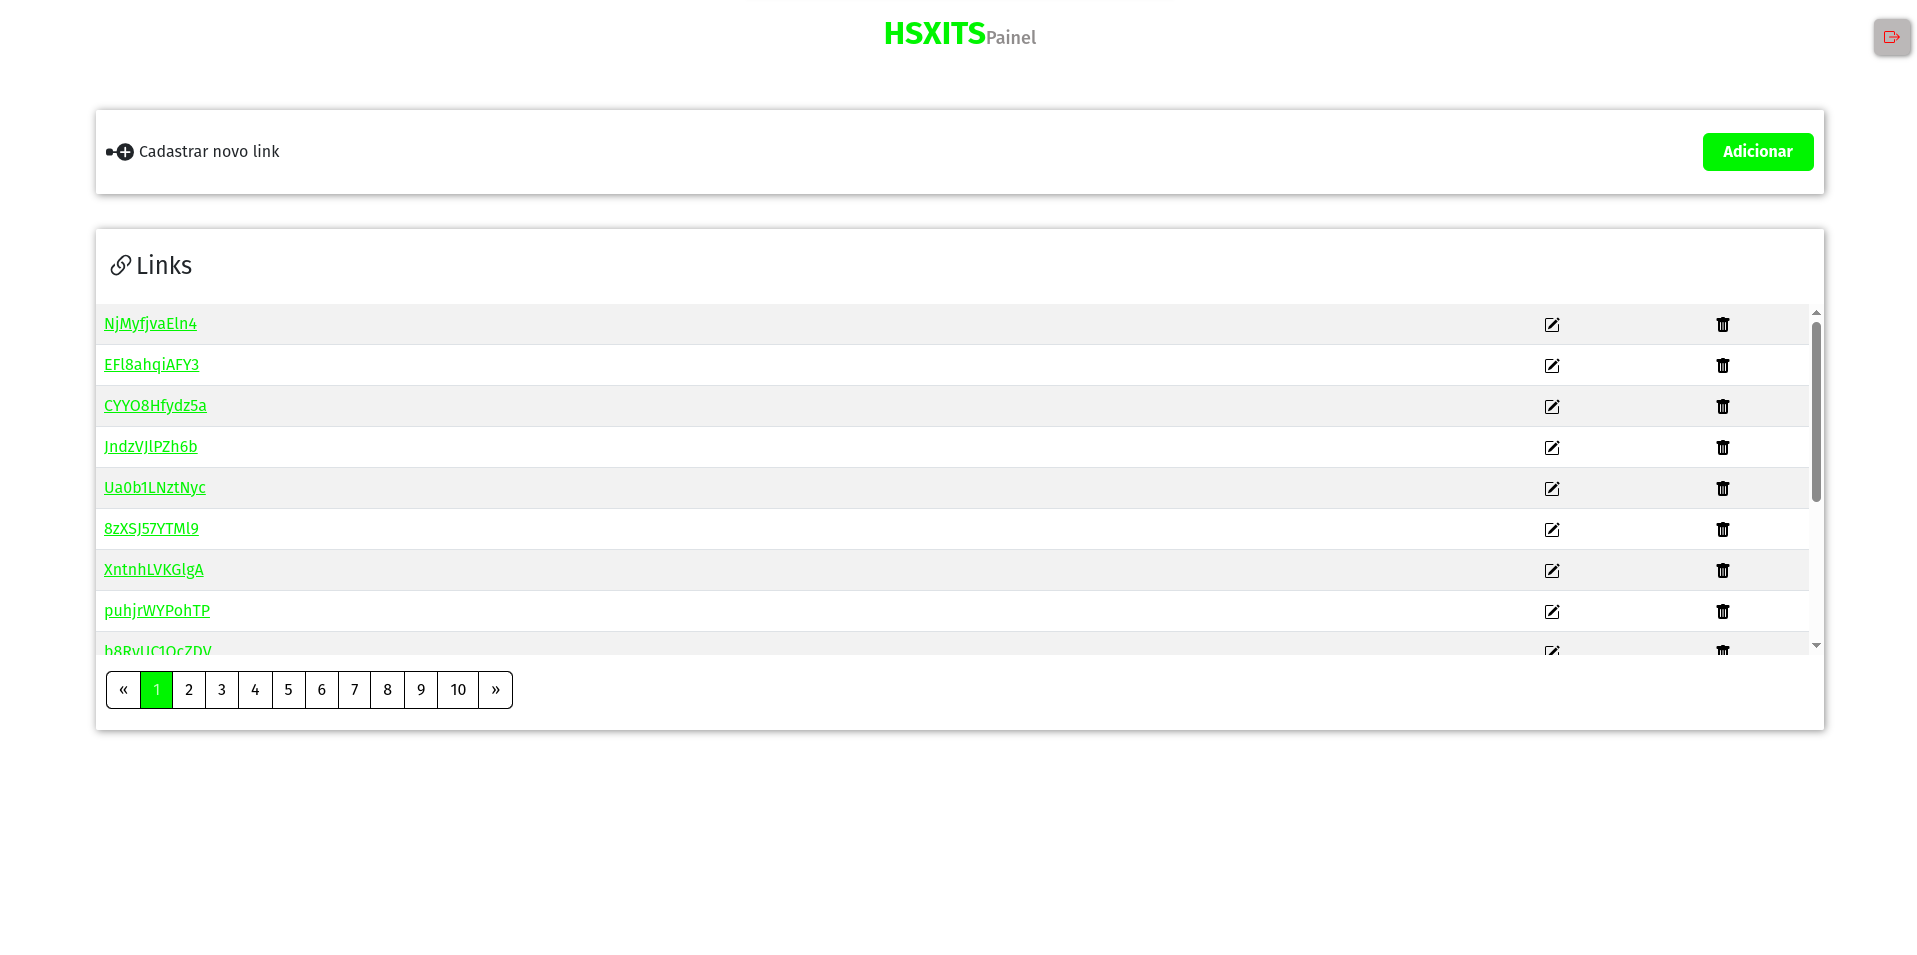
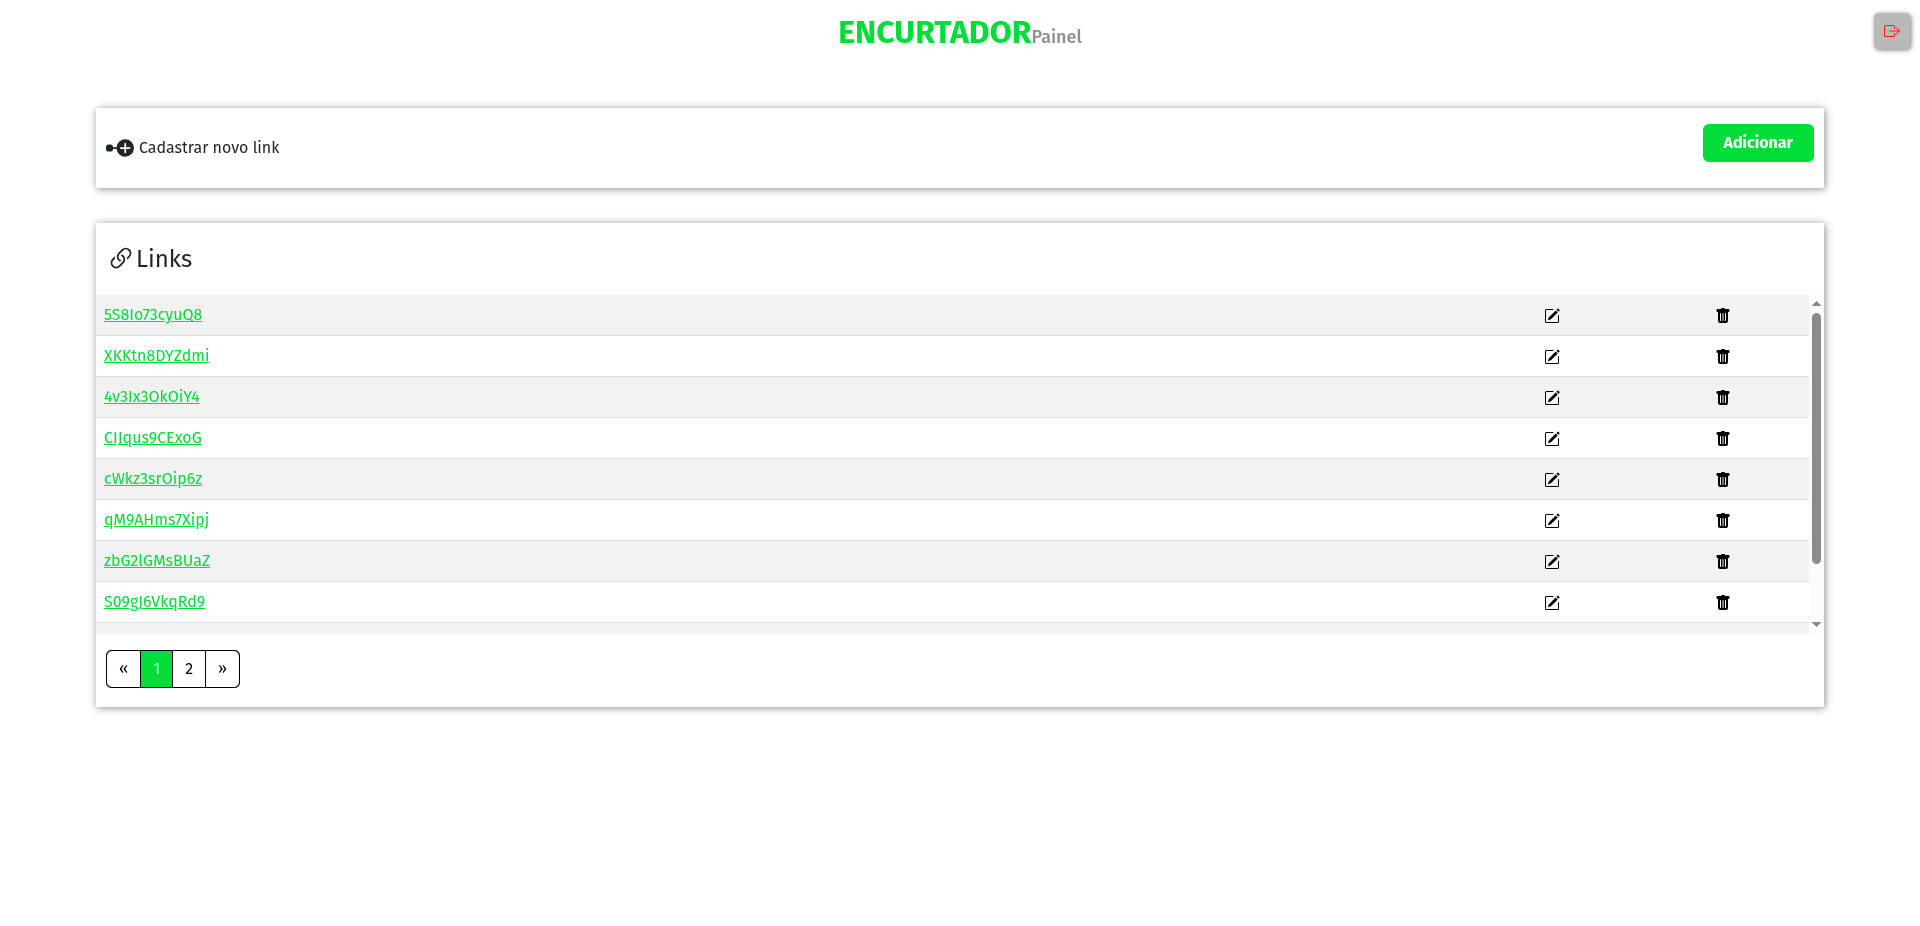
Att

diff --git a/resources/views/encurtador/link.blade.php b/resources/views/encurtador/link.blade.php
@@ -44,41 +44,6 @@ Downloads
         
 
     </div >
-    <div class="paitxt">
-        <div class="divtxt">
-            <h3>
-                Ganhar dinheiro na internet tem se tornado cada vez mais acessível, com muitas oportunidades surgindo para quem quer empreender ou trabalhar remotamente. Aqui vão algumas estratégias eficazes:
-            </h3>
-            <p>
-                1. Freelancing: Se você possui habilidades como design, redação, tradução, programação, ou marketing, pode oferecer seus serviços em plataformas como Upwork, Fiverr, ou Workana. Freelancing permite trabalhar para clientes do mundo todo e construir um portfólio sólido.
-            </p>
-            <p>
-                2. Afiliados e Marketing de Conteúdo: O marketing de afiliados consiste em divulgar produtos de terceiros e ganhar uma comissão por cada venda gerada. É possível criar conteúdo em blogs, redes sociais ou YouTube, e utilizar links de afiliados para promover produtos que se alinhem ao seu público.
-            </p>
-            <p>
-                3. E-commerce e Dropshipping: Com o e-commerce e o dropshipping, você pode vender produtos sem precisar de estoque. Plataformas como Shopify e AliExpress facilitam o processo, permitindo que você foque no marketing e no atendimento ao cliente, enquanto os fornecedores cuidam da entrega.
-    
-    
-            </p>
-            <p>
-                4. Criar Conteúdo no YouTube ou TikTok: Monetizar conteúdo em vídeo é uma oportunidade viável. Tanto o YouTube quanto o TikTok oferecem formas de ganhar dinheiro, seja por visualizações, parcerias ou doações dos seguidores. É importante encontrar um nicho e criar vídeos de forma consistente para construir audiência.
-    
-            </p>
-            <p>
-                5. Cursos e Infoprodutos: Se você possui conhecimento em uma área específica, pode criar e vender cursos online, ebooks, ou consultorias. Plataformas como Hotmart, Udemy e Coursera são excelentes para hospedar cursos e alcançar um público amplo.
-            </p>
-            <p>
-                6. Investimentos Online: Existem opções como ações, criptomoedas e fundos imobiliários que permitem ganhar dinheiro com investimentos. É importante estudar e entender o mercado antes de investir, buscando estratégias seguras e diversificando os investimentos.
-            </p>
-            <p>
-                7. Marketing de Rede e Programas de Afiliados: Algumas empresas oferecem ganhos por indicação, que é uma boa alternativa para quem tem uma rede de contatos grande. Esse modelo é popular no marketing digital e pode complementar outras fontes de renda online.
-    
-            </p>
-            <p>
-                <b>Cada estratégia tem seu público e demanda dedicação, além de uma curva de aprendizado.</b>
-            </p>
-        </div>
-    </div>
     
 @endsection
 

diff --git a/resources/views/app.blade.php b/resources/views/app.blade.php
@@ -11,7 +11,7 @@
 </head>
 <body>
     <header>
-        <h1><span>HSXITS</span>@yield('titulo')</h1>
+        <h1><span>ENCURTADOR</span>@yield('titulo')</h1>
         @yield('btn')
         
     </header>
